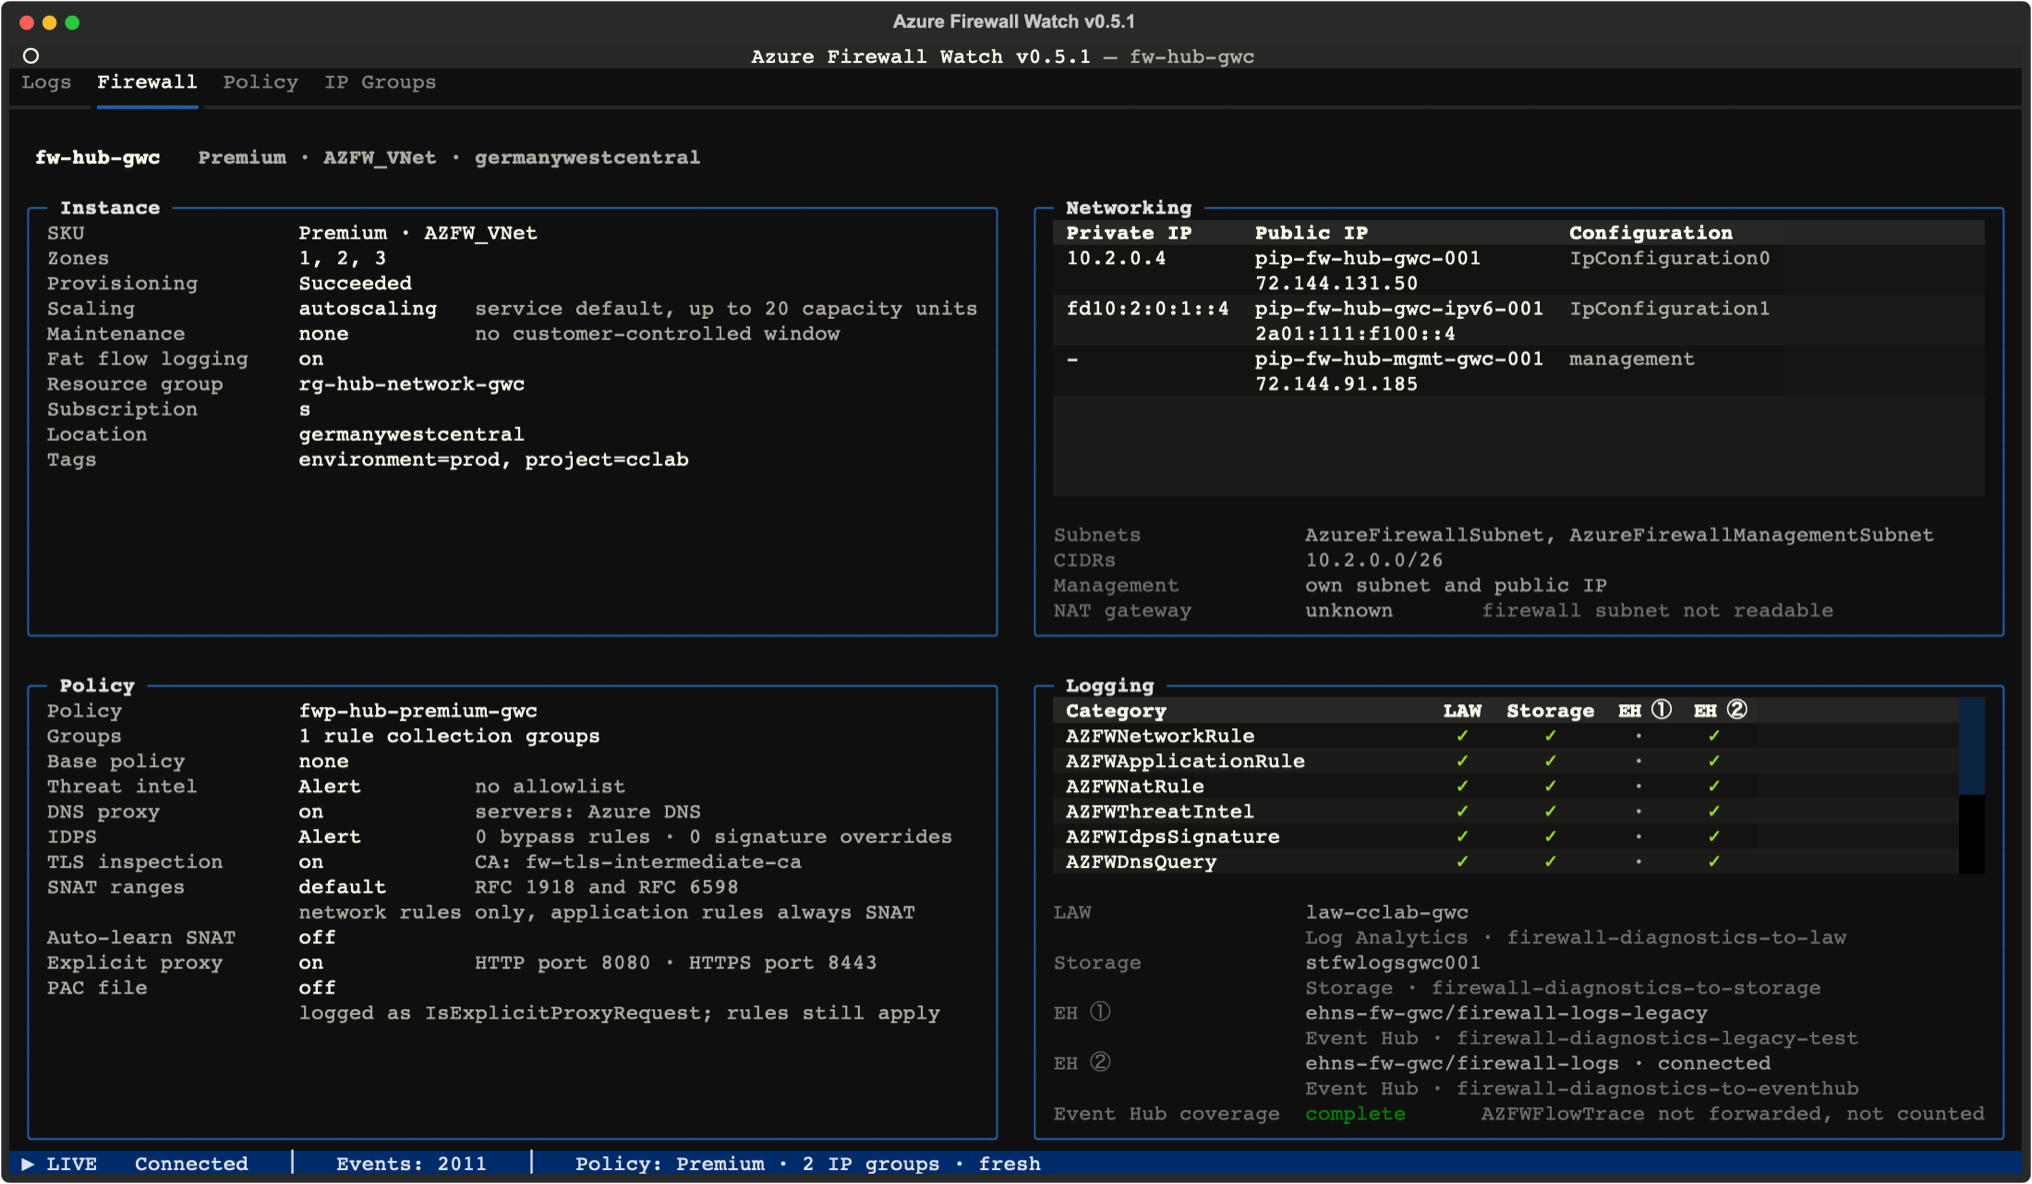
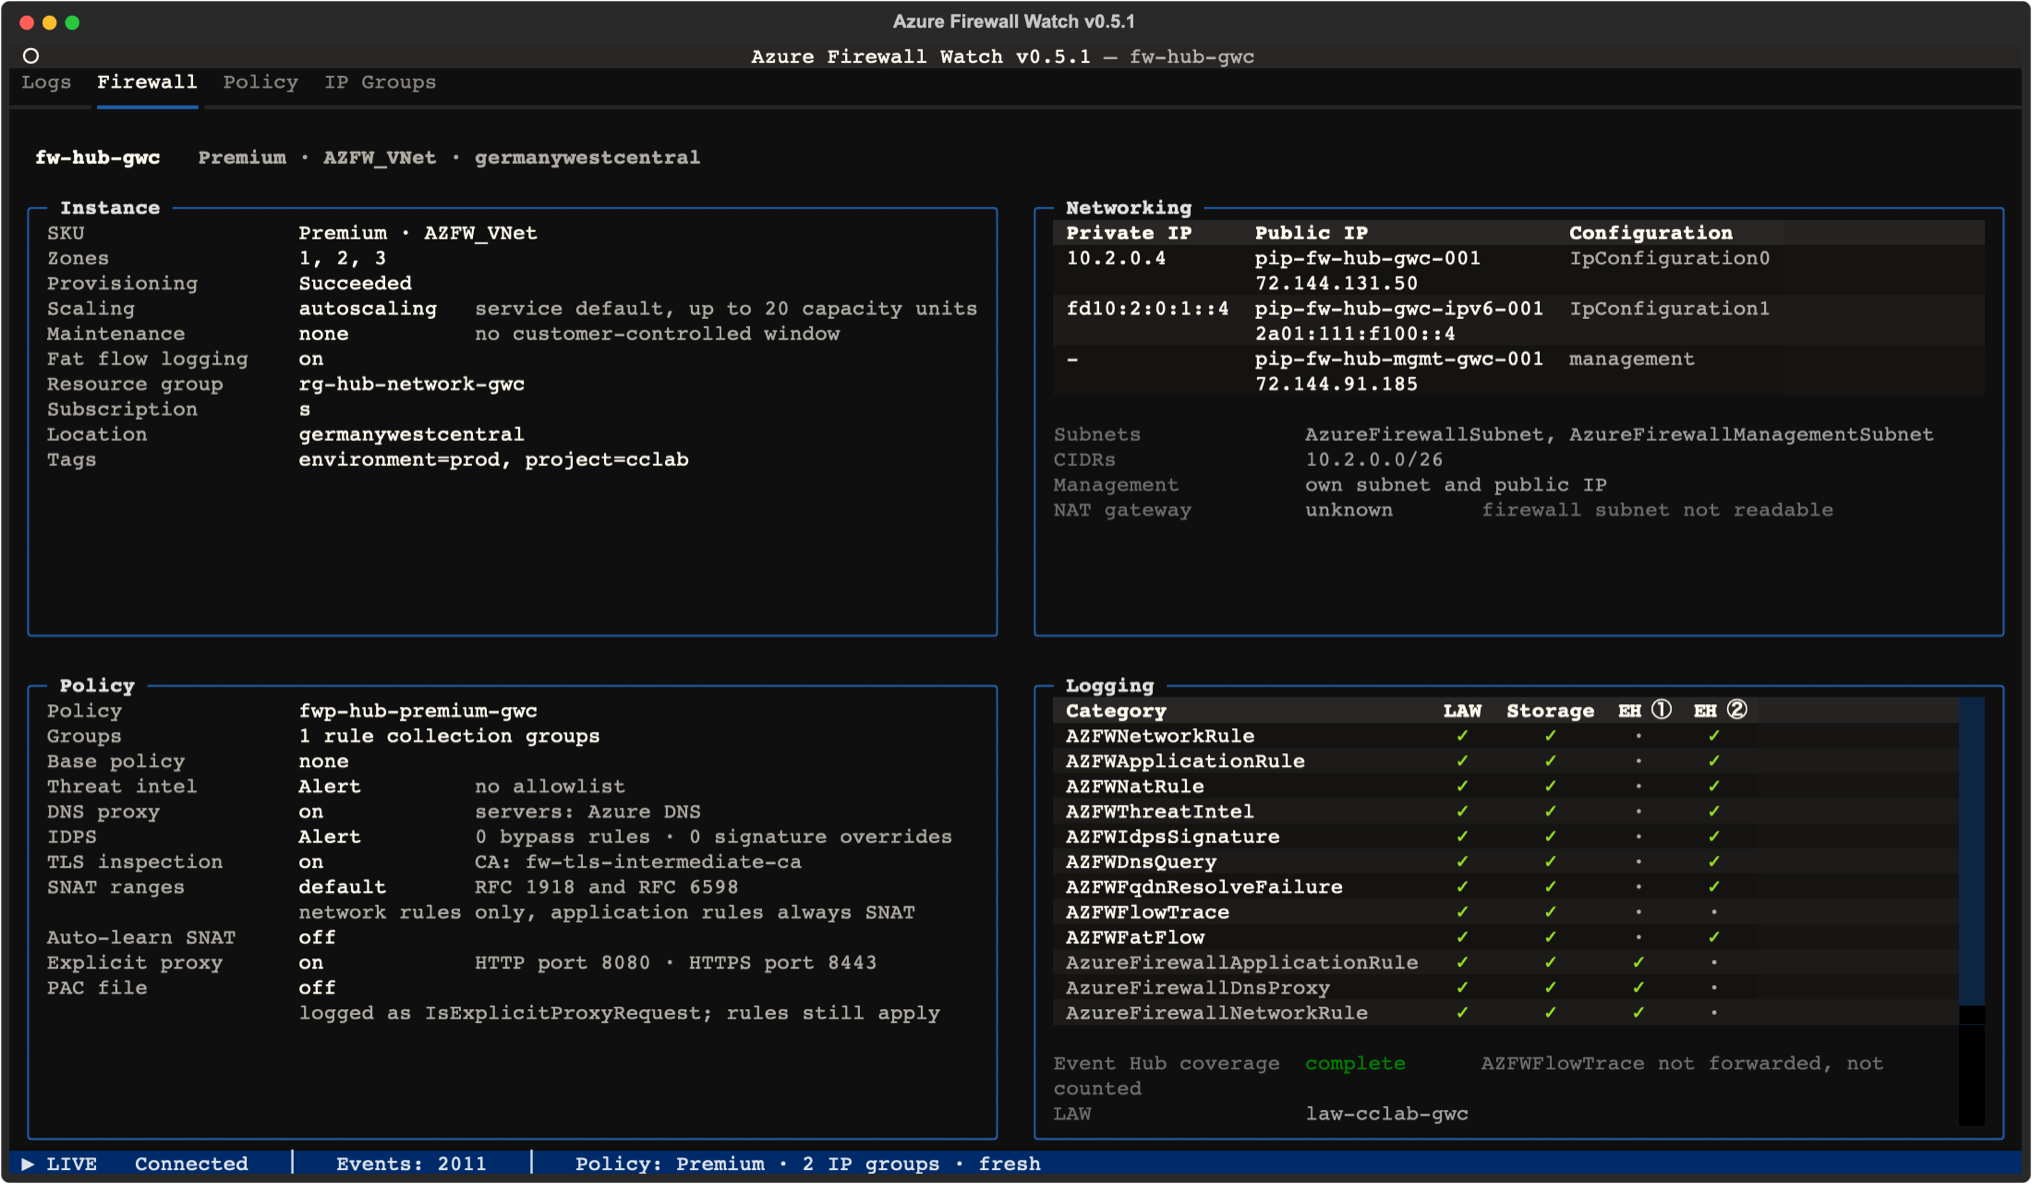
fix(firewall): tables take their natural height, shorter notes

diff --git a/viewer/views/firewall.py b/viewer/views/firewall.py
@@ -285,7 +285,7 @@ def _one_nat_gateway_rows(gw: NatGatewayInfo) -> list[str]:
     ]
 
 
-def _no_gateway_row(fw: FirewallInfo) -> str:
+def _no_gateway_rows(fw: FirewallInfo) -> list[str]:
     """The "none" row, careful not to name an egress address the data does not establish.
 
     The snapshot reads no route tables: a route to an NVA or a virtual network
@@ -294,10 +294,11 @@ def _no_gateway_row(fw: FirewallInfo) -> str:
     A data plane without any public IP cannot SNAT to one at all.
     """
     if not any(c.public_ip_id for c in fw.ip_configs):
-        return _row("NAT gateway", "none", "the data-plane IP configurations have no public IP; "
-                    "egress depends on your routes")
-    return _row("NAT gateway", "none", "traffic routed straight to the internet leaves with the firewall's "
-                "public IPs; routes to an NVA or gateway (forced tunneling) are not read here")
+        return [_row("NAT gateway", "none"),
+                _note("the data-plane IP configurations have no public IP; egress depends on your routes")]
+    return [_row("NAT gateway", "none"),
+            _note("internet-bound traffic leaves with the firewall's public IPs"),
+            _note("routes to an NVA or gateway (forced tunneling) are not read here")]
 
 
 def _nat_gateway_rows(fw: FirewallInfo, subnets: list[SubnetInfo], nat_gateways: list[NatGatewayInfo]) -> list[str]:
@@ -318,7 +319,7 @@ def _nat_gateway_rows(fw: FirewallInfo, subnets: list[SubnetInfo], nat_gateways:
             # is only a statement about the readable ones.
             return [_row("NAT gateway", "none on the readable subnets", f"{unread} of {len(fw.subnet_ids)} "
                          "firewall subnets not readable, so a gateway there would not show")]
-        return [_no_gateway_row(fw)]
+        return _no_gateway_rows(fw)
     rows: list[str] = []
     if unread > 0:
         rows.append(_note(f"{unread} of {len(fw.subnet_ids)} firewall subnets not readable; the list below may be incomplete"))
@@ -433,10 +434,8 @@ class FirewallView(Vertical):
     FirewallView .panel > Static {
         height: auto;
     }
-    FirewallView .panel > DataTable {
-        height: auto;
-        max-height: 14;
-    }
+    /* .panel > DataTable: natural height, set in the app's CSS (it outranks
+       DEFAULT_CSS and carries the global "DataTable { height: 1fr }"). */
     FirewallView .panel > .panel-note {
         color: $text-muted;
         margin-top: 1;
@@ -612,8 +611,7 @@ class FirewallView(Vertical):
                  f"{t.long_kind} · {escape(t.setting.name)}")
             for t in targets
         ]
-        legend.append(_coverage_row(connected, policy, fw))
-        note.update("\n".join(legend))
+        note.update("\n".join([_coverage_row(connected, policy, fw), *legend]))
 
 
 # ── Logging helpers: targets, the connected hub, and what it should carry ─────
@@ -720,5 +718,5 @@ def _coverage_row(connected: list[LoggingTarget], policy: FirewallPolicyInfo | N
     missing = [c for c in expected_categories(policy, fw) if c not in forwarded]
     if missing:
         return _row("Event Hub coverage", f"[yellow]incomplete, missing {', '.join(missing)}[/]")
-    optional = [f"{c} not forwarded, not counted" for c in _OPTIONAL_CATEGORIES if c not in forwarded]
+    optional = [f"{c} absent, not counted" for c in _OPTIONAL_CATEGORIES if c not in forwarded]
     return _row("Event Hub coverage", "[green]complete[/]", "; ".join(optional))

diff --git a/tests/test_nat_gateway.py b/tests/test_nat_gateway.py
@@ -372,8 +372,8 @@ def _vnet_fw(*, data_public: bool, forced_tunneling: bool, subnet_ids=("/sn1",))
 
 def test_nat_gateway_rows_no_subnet_ids_treated_as_no_gateway():
     rows = _nat_gateway_rows(VNET_FW_NO_SUBNET_IDS, [], [])
-    assert len(rows) == 1
-    assert rows[0].startswith(_row("NAT gateway", "none"))
+    assert rows[0] == _row("NAT gateway", "none")
+    assert all(r.startswith(" ") for r in rows[1:])   # the qualifier as notes, no second row
 
 
 def test_nat_gateway_rows_no_gateway_with_a_public_data_plane_qualifies_the_egress():
@@ -381,8 +381,9 @@ def test_nat_gateway_rows_no_gateway_with_a_public_data_plane_qualifies_the_egre
     for traffic that goes straight to the internet."""
     subnet = SubnetInfo(id="/sn1", name="AzureFirewallSubnet")
     rows = _nat_gateway_rows(_vnet_fw(data_public=True, forced_tunneling=False), [subnet], [])
-    assert rows == [_row("NAT gateway", "none", "traffic routed straight to the internet leaves with the "
-                         "firewall's public IPs; routes to an NVA or gateway (forced tunneling) are not read here")]
+    assert rows == [_row("NAT gateway", "none"),
+                    _note("internet-bound traffic leaves with the firewall's public IPs"),
+                    _note("routes to an NVA or gateway (forced tunneling) are not read here")]
 
 
 def test_nat_gateway_rows_private_data_plane_with_management_nic_never_names_a_firewall_public_ip():
@@ -392,8 +393,8 @@ def test_nat_gateway_rows_private_data_plane_with_management_nic_never_names_a_f
                SubnetInfo(id="/sn2", name="AzureFirewallManagementSubnet")]
     fw = _vnet_fw(data_public=False, forced_tunneling=True, subnet_ids=("/sn1", "/sn2"))
     rows = _nat_gateway_rows(fw, subnets, [])
-    assert rows == [_row("NAT gateway", "none", "the data-plane IP configurations have no public IP; "
-                         "egress depends on your routes")]
+    assert rows == [_row("NAT gateway", "none"),
+                    _note("the data-plane IP configurations have no public IP; egress depends on your routes")]
     assert "leaves with the firewall's public IPs" not in rows[0]
 
 
@@ -403,15 +404,16 @@ def test_nat_gateway_rows_management_nic_alone_does_not_mean_forced_tunneling():
     subnet = SubnetInfo(id="/sn1", name="AzureFirewallSubnet")
     fw = _vnet_fw(data_public=True, forced_tunneling=True)
     rows = _nat_gateway_rows(fw, [subnet], [])
-    assert "forced tunneling:" not in rows[0]
-    assert "traffic routed straight to the internet leaves with the firewall's public IPs" in rows[0]
+    joined = "\n".join(rows)
+    assert "forced tunneling:" not in joined
+    assert "internet-bound traffic leaves with the firewall's public IPs" in joined
 
 
 def test_nat_gateway_rows_private_only_data_plane_without_forced_tunneling():
     subnet = SubnetInfo(id="/sn1", name="AzureFirewallSubnet")
     rows = _nat_gateway_rows(_vnet_fw(data_public=False, forced_tunneling=False), [subnet], [])
-    assert rows == [_row("NAT gateway", "none", "the data-plane IP configurations have no public IP; "
-                         "egress depends on your routes")]
+    assert rows == [_row("NAT gateway", "none"),
+                    _note("the data-plane IP configurations have no public IP; egress depends on your routes")]
 
 
 TWO_SUBNET_FW = FirewallInfo(id="/fw", name="fw", subscription_id="s", resource_group="rg", location="gwc",

diff --git a/tests/test_logging_matrix.py b/tests/test_logging_matrix.py
@@ -109,7 +109,7 @@ def test_coverage_complete_names_the_optional_category_that_is_not_forwarded():
     targets = logging_targets([_eh(categories=[c for c in VIEWER_CATEGORIES if c != "AZFWFlowTrace"])])
     line = _coverage_row(connected_event_hub_targets(targets), _policy(), _fw(**{FAT_FLOW_KEY: "true"}))
     assert line.startswith(_row("Event Hub coverage", "[green]complete[/]"))
-    assert "AZFWFlowTrace not forwarded" in line and "incomplete" not in line
+    assert "AZFWFlowTrace absent, not counted" in line and "incomplete" not in line
 
 
 def test_coverage_complete_with_all_logs_has_nothing_to_add():

diff --git a/viewer/app.py b/viewer/app.py
@@ -112,6 +112,12 @@ class FirewallLogApp(App[None]):
     DataTable {
         height: 1fr;
     }
+    /* The Firewall tab's tables sit inside scrolling panels and take their
+       natural height there; app CSS outranks a view's DEFAULT_CSS, so the
+       exception lives here, next to the rule it overrides. */
+    FirewallView .panel > DataTable {
+        height: auto;
+    }
 
     StatusBar {
         height: 1;
